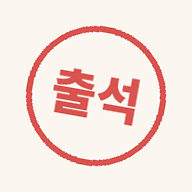
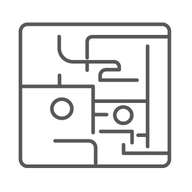
Add files via upload

Changed region(s): [[0.0938, 0.0938, 0.9062, 0.875]]

diff --git a/index.html b/index.html
@@ -4,7 +4,7 @@
 <meta charset="UTF-8">
 <meta name="viewport" content="width=device-width, initial-scale=1.0, viewport-fit=cover">
 <meta name="theme-color" content="#FBF7F0">
-<title>나린학원 출석부</title>
+<title>나린학원</title>
 <link rel="manifest" href="manifest.json">
 <link rel="icon" href="icon-192.png">
 <link rel="apple-touch-icon" href="icon-192.png">
@@ -34,9 +34,10 @@
   }
   header h1{font-size:27px; display:flex; align-items:center; gap:10px;}
   header h1 .badge{
-    width:38px; height:38px; border-radius:50%; background:var(--accent);
-    display:inline-flex; align-items:center; justify-content:center; font-size:19px;
-    box-shadow:var(--shadow);
+    width:42px; height:42px; border-radius:12px; background:#fff;
+    display:inline-flex; align-items:center; justify-content:center;
+    box-shadow:var(--shadow); object-fit:contain; padding:3px;
+    border:1.5px solid var(--line);
   }
   .clock{font-size:26px; text-align:center; color:var(--ink);}
   .clock small{font-size:15px; color:var(--muted); margin-left:2px;}
@@ -95,6 +96,10 @@
   }
   .absBtn:hover{color:var(--seal);}
   .clrTag{font-size:11px; color:#B8860B;}
+  .searchInp{width:min(300px,100%);}
+  .stu.extra{border-style:dashed; border-color:var(--line); background:#FCFBF7; box-shadow:none;}
+  .tagExtra{position:absolute; top:8px; left:10px; font-size:11px; color:var(--navy);
+    background:rgba(61,107,158,.08); border-radius:999px; padding:3px 8px;}
 
   .hint{font-size:13.5px; color:var(--muted); margin:16px 4px; line-height:1.8;}
   .empty{padding:70px 0; text-align:center; color:var(--muted); font-size:15.5px; line-height:2;}
@@ -157,9 +162,10 @@
   .lock .btn{width:100%;}
 
   .ovl{position:fixed; inset:0; background:rgba(40,40,35,.45); display:flex;
-    align-items:center; justify-content:center; z-index:50;}
+    align-items:flex-start; justify-content:center; z-index:50; padding:5vh 16px 16px;}
   .modal{background:#fff; border-radius:var(--r); padding:24px 26px; width:min(380px,92vw);
-    box-shadow:0 12px 44px rgba(0,0,0,.22);}
+    box-shadow:0 12px 44px rgba(0,0,0,.22); max-height:85vh; overflow-y:auto;
+    -webkit-overflow-scrolling:touch;}
   .modal p{font-size:15.5px; line-height:1.7; margin-bottom:16px;}
   .modal .mtitle{font-family:'Jua',sans-serif; font-size:19px; margin-bottom:14px;}
   .modal label{display:flex; align-items:center; gap:8px; font-size:14.5px; margin:10px 0;}
@@ -176,7 +182,7 @@
 </head>
 <body>
 <header>
-  <h1><span class="badge">✏</span>나린학원 출석부</h1>
[1 lines of base64/hex data omitted]
   <div class="clock" id="clock">--:--</div>
   <span class="date" id="todayLabel"></span>
 </header>
@@ -229,6 +235,7 @@ let roster={slots:[]};
 let attCache={};
 let watched={};
 let view='today', logMonth=todayStr().slice(0,7), logSlot='ALL';
+let todaySearch='', logSearch='';
 let adminUnlocked=false;
 
 setInterval(()=>{
@@ -348,49 +355,72 @@ function drawToday(){
   const s=seoul(); const date=s.date; const wd=s.wd; const nowHM=s.time;
   const day=(attCache[monthKey(date)]||{})[date]||{};
   const slots=sortedSlots().map(sl=>({
-    ...sl, today:sl.students.filter(st=>(st.days||[]).includes(wd))
+    ...sl,
+    today:sl.students,                                          // 보강 대응: 모든 학생을 매일 표시
+    regular:sl.students.filter(st=>(st.days||[]).includes(wd))  // 오늘이 정규수업일인 학생
   })).filter(sl=>sl.today.length);
 
   if(!slots.length){
-    m.innerHTML=`<div class="empty">오늘(${DAYS[wd]}요일) 수업이 있는 학생이 없습니다.</div>`;
+    m.innerHTML='<div class="empty">등록된 학생이 없습니다.<br>「시간대·학생 관리」에서 학생을 추가해 주세요.</div>';
     return;
   }
-  const started=slots.filter(sl=>sl.time<=nowHM);
-  let miss='<div class="missBox"><b>📋 미등원 현황</b><br>';
+  const esc=(todaySearch||'').replace(/"/g,'&quot;');
+  const searchBar=`<div class="row" style="margin-top:0">
+    <input type="text" class="searchInp" placeholder="🔍 학생 이름 검색" value="${esc}"
+      oninput="todaySearch=this.value;filterTodayCards()"></div>`;
+
+  const started=slots.filter(sl=>sl.time<=nowHM && sl.regular.length);
+  let miss='<div class="missBox"><b>📋 미등원 현황</b> <small style="color:var(--muted)">(정규수업 요일 기준)</small><br>';
   if(!started.length){
     miss+='<span class="later">아직 시작된 시간대가 없습니다. 수업 시작 시간이 지나면 여기에 표시됩니다.</span>';
   }else{
     started.forEach(sl=>{
-      const not=sl.today.filter(st=>{const r=day[st.id]||{}; return !r.in && r.status!=='a';});
+      const not=sl.regular.filter(st=>{const r=day[st.id]||{}; return !r.in && r.status!=='a';});
       miss+=`${sl.name} <small style="color:var(--muted)">(${sl.time})</small> — `;
       miss+=not.length?`<span class="miss">${not.map(s=>s.name).join(', ')}</span>`:'<span class="ok">전원 등원 ✓</span>';
       miss+='<br>';
     });
-    const pending=slots.filter(sl=>sl.time>nowHM);
+    const pending=slots.filter(sl=>sl.time>nowHM && sl.regular.length);
     if(pending.length) miss+=`<span class="later">${pending.map(p=>p.name).join(', ')} 시간대는 시작 전입니다.</span>`;
   }
   miss+='</div>';
 
-  let html=miss;
+  let html=searchBar+miss;
   slots.forEach(sl=>{
-    const arrived=sl.today.filter(st=>(day[st.id]||{}).in).length;
+    const regArrived=sl.regular.filter(st=>(day[st.id]||{}).in).length;
+    const extraArrived=sl.today.filter(st=>!(st.days||[]).includes(wd)&&(day[st.id]||{}).in).length;
+    const cnt=`${sl.time} · 정규 ${regArrived}/${sl.regular.length} 등원`+(extraArrived?` · 보강 ${extraArrived}명`:'');
     html+=`<section class="slotSec"><div class="slotHead">
-      <h2>${sl.name}</h2><span class="cnt">${sl.time} · ${arrived}/${sl.today.length} 등원</span></div>
+      <h2>${sl.name}</h2><span class="cnt">${cnt}</span></div>
       <div class="grid">`+sl.today.map(st=>{
         const rec=day[st.id]||{};
+        const isReg=(st.days||[]).includes(wd);
         let cls='stu', seals='', txt='탭하여 등원 기록';
+        const tag=!isReg?'<span class="tagExtra">보강</span>':'';
         if(rec.status==='a'){cls+=' absent'; txt='결석';}
         else if(rec.out){seals='<span class="seal">출석</span><span class="seal out">하원</span>'; txt='등원 '+rec.in+' · 하원 '+rec.out;}
         else if(rec.in){seals='<span class="seal">출석</span>'; txt='등원 '+rec.in+'<br>탭하면 하원 기록';}
-        else{cls+=' notyet';}
-        return `<div class="${cls}" onclick="tapStudent('${st.id}')">${seals}
+        else if(isReg){cls+=' notyet';}
+        else{cls+=' extra'; txt='보강·추가 등원 시 탭';}
+        return `<div class="${cls}" data-name="${st.name}" onclick="tapStudent('${st.id}')">${tag}${seals}
           <div class="nm">${st.name}</div><div class="st">${txt}</div>
           <button class="absBtn" onclick="event.stopPropagation();toggleAbsent('${st.id}')">${rec.status==='a'?'결석 취소':'결석'}</button>
         </div>`;
       }).join('')+'</div></section>';
   });
-  html+='<p class="hint">카드를 탭하면 등원 → 하원 순으로 시간이 기록됩니다. 다른 기기의 기록은 실시간으로 반영됩니다.</p>';
+  html+='<p class="hint">카드를 탭하면 등원 → 하원 순으로 시간이 기록됩니다. 점선 카드는 오늘이 정규수업일이 아닌 학생(보강 등)으로, 출석을 찍으면 「보강」으로 집계되고 안 와도 미등원에 뜨지 않습니다.</p>';
   m.innerHTML=html;
+  filterTodayCards();
+}
+function filterTodayCards(){
+  const q=(todaySearch||'').trim();
+  document.querySelectorAll('#main .stu').forEach(el=>{
+    el.style.display=(!q||(el.dataset.name||'').includes(q))?'':'none';
+  });
+  document.querySelectorAll('#main .slotSec').forEach(sec=>{
+    const any=[...sec.querySelectorAll('.stu')].some(el=>el.style.display!=='none');
+    sec.style.display=any?'':'none';
+  });
 }
 function renderToday(){
   watchMonth(monthKey(todayStr()));
@@ -486,6 +516,7 @@ async function renderLog(){
   const m=$('#main');
   if(!roster.slots.length){m.innerHTML='<div class="empty">등록된 시간대가 없습니다.</div>';return;}
   if(logSlot!=='ALL' && !slotById(logSlot)) logSlot='ALL';
+  const escL=(logSearch||'').replace(/"/g,'&quot;');
   let html=`<div class="row">
     <input type="month" value="${logMonth}" onchange="logMonth=this.value;renderLog()">
     <div class="slotTabs">
@@ -496,9 +527,23 @@ async function renderLog(){
     <button class="btn ghost" onclick="exportCSV()">CSV 내보내기</button>
     <button class="btn ghost" onclick="changePin()">비밀번호 변경</button>
     <button class="btn ghost" onclick="doLogout()">계정 로그아웃</button>
+  </div>
+  <div class="row">
+    <input type="text" class="searchInp" placeholder="🔍 학생 이름 검색" value="${escL}"
+      oninput="logSearch=this.value;buildLogTable()">
   </div>`;
-  const cols=logStudents();
-  const att=await fetchMonth('att-'+logMonth);
+  await fetchMonth('att-'+logMonth);
+  m.innerHTML=html+'<div id="logTblWrap"></div>';
+  buildLogTable();
+}
+function buildLogTable(){
+  const wrap=$('#logTblWrap'); if(!wrap)return;
+  const q=(logSearch||'').trim();
+  const cols=logStudents().filter(c=>!q||c.st.name.includes(q));
+  const att=attCache['att-'+logMonth]||{};
+  if(!cols.length){
+    wrap.innerHTML='<div class="empty">검색된 학생이 없습니다.</div>'; return;
+  }
   const [y,mo]=logMonth.split('-').map(Number);
   const dim=new Date(y,mo,0).getDate();
   const activeDates=[];
@@ -507,16 +552,16 @@ async function renderLog(){
     if(att[ds] && cols.some(c=>att[ds][c.st.id])) activeDates.push(ds);
   }
   if(!activeDates.length){
-    m.innerHTML=html+'<div class="empty">이 달에는 기록이 없습니다.</div>'; return;
+    wrap.innerHTML='<div class="empty">이 달에는 기록이 없습니다.</div>'; return;
   }
   let thead;
-  if(logSlot==='ALL'){
+  if(logSlot==='ALL' && !q){
     const slots=sortedSlots().filter(sl=>sl.students.length);
     thead='<thead><tr><th rowspan="2">날짜</th>'+
       slots.map(sl=>`<th colspan="${sl.students.length}">${sl.name}</th>`).join('')+'</tr><tr>'+
       cols.map(c=>'<th>'+c.st.name+'</th>').join('')+'</tr></thead>';
   }else{
-    thead='<thead><tr><th>날짜</th>'+cols.map(c=>'<th>'+c.st.name+'</th>').join('')+'</tr></thead>';
+    thead='<thead><tr><th>날짜</th>'+cols.map(c=>'<th>'+c.st.name+(logSlot==='ALL'?' <small style="color:var(--muted)">'+c.sl.name+'</small>':'')+'</th>').join('')+'</tr></thead>';
   }
   let tbl='<div class="tblWrap"><table>'+thead+'<tbody>';
   const cnt={};
@@ -537,7 +582,7 @@ async function renderLog(){
   tbl+='</tbody><tfoot><tr><td>출석일</td>'+cols.map(c=>'<td>'+(cnt[c.st.id]||0)+'</td>').join('')+'</tr></tfoot></table></div>';
   tbl+=`<p class="legend">○ 출석 (칸에 마우스를 올리면 등·하원 시간) · ✕ 결석 · <span class="clrTag">✂ 지움기록</span>은 학생이 카드를 세 번 탭해 기록을 지운 적이 있다는 표시입니다.<br>
   칸을 누르면 등·하원 시간과 결석 여부를 직접 수정할 수 있습니다.</p>`;
-  m.innerHTML=html+tbl;
+  wrap.innerHTML=tbl;
 }
 async function doLogout(){
   if(await uiConfirm('이 기기에서 학원 계정을 로그아웃할까요?')){
@@ -582,7 +627,8 @@ function openRecEdit(ds,sid){
   };
 }
 async function exportCSV(){
-  const cols=logStudents();
+  const q=(logSearch||'').trim();
+  const cols=logStudents().filter(c=>!q||c.st.name.includes(q));
   const att=await fetchMonth('att-'+logMonth);
   const [y,mo]=logMonth.split('-').map(Number);
   const dim=new Date(y,mo,0).getDate();
@@ -622,16 +668,18 @@ function renderManage(){
       <span class="sp"></span>
       <button class="btn ghost small" onclick="editSlot('${sl.id}')">이름·시간 수정</button>
       <button class="btn danger small" onclick="delSlot('${sl.id}')">삭제</button></h3>
-    <div>${sl.students.map(st=>`<span class="chip">${st.name}<small>${fmtDays(st.days||[])}</small>
+    <div>${sl.students.map(st=>`<span class="chip">${st.name}<small>${fmtDays(st.days||[])||'자유'}</small>
       <button onclick="delStudent('${sl.id}','${st.id}')">✕</button></span>`).join('')||'<span class="hint">학생이 없습니다.</span>'}</div>
     <div class="row">
       <input type="text" id="ns-${sl.id}" placeholder="학생 이름 (쉼표로 여러 명)">
+      <span style="font-size:13px;color:var(--muted)">정규요일:</span>
       <div class="dayPick" id="dp-${sl.id}">${[1,2,3,4,5,6,0].map(d=>
         `<button class="${newDays.includes(d)?'on':''}" onclick="toggleDay('${sl.id}',${d},this)">${DAYS[d]}</button>`).join('')}</div>
       <button class="btn ghost" onclick="addStudents('${sl.id}')">학생 추가</button>
     </div>
   </div>`).join('');
-  html+=`<p class="hint">요일 버튼을 눌러 그 학생이 수업 오는 요일을 고른 뒤 추가하세요. 「오늘 출석」에는 해당 요일 학생만 나타납니다.<br>
+  html+=`<p class="hint">요일 버튼은 <b>정규수업 요일</b>입니다. 모든 학생이 매일 「오늘 출석」에 나타나 보강 출석도 찍을 수 있고, 정규수업 요일에 안 온 학생만 미등원 현황에 표시됩니다.<br>
+  요일을 하나도 고르지 않으면 '자유'로 등록되어 미등원 집계 없이 매일 출석만 찍을 수 있습니다.<br>
   다른 태블릿·컴퓨터에서도 이 주소로 접속해 같은 학원 계정으로 로그인하면 실시간으로 연동됩니다.</p>`;
   m.innerHTML=html;
 }
@@ -673,7 +721,7 @@ async function delSlot(id){
 async function addStudents(slId){
   const inp=$('#ns-'+slId); const names=inp.value.split(',').map(s=>s.trim()).filter(Boolean);
   if(!names.length)return;
-  const days=newDays.length?newDays.slice():[1,2,3,4,5];
+  const days=newDays.slice();   // 요일을 하나도 안 고르면 '자유'(정규수업일 없음)로 등록됨
   const sl=slotById(slId);
   names.forEach((n,i)=>sl.students.push({id:'s'+Date.now()+'_'+i,name:n,days:days}));
   await saveRoster(); renderManage();
